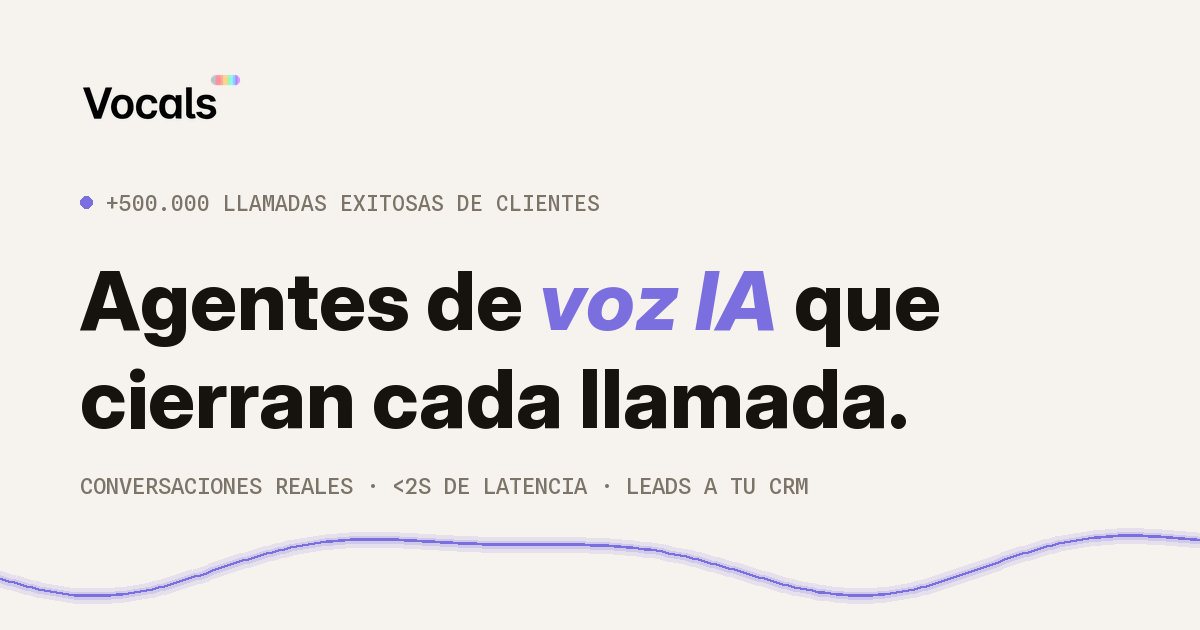
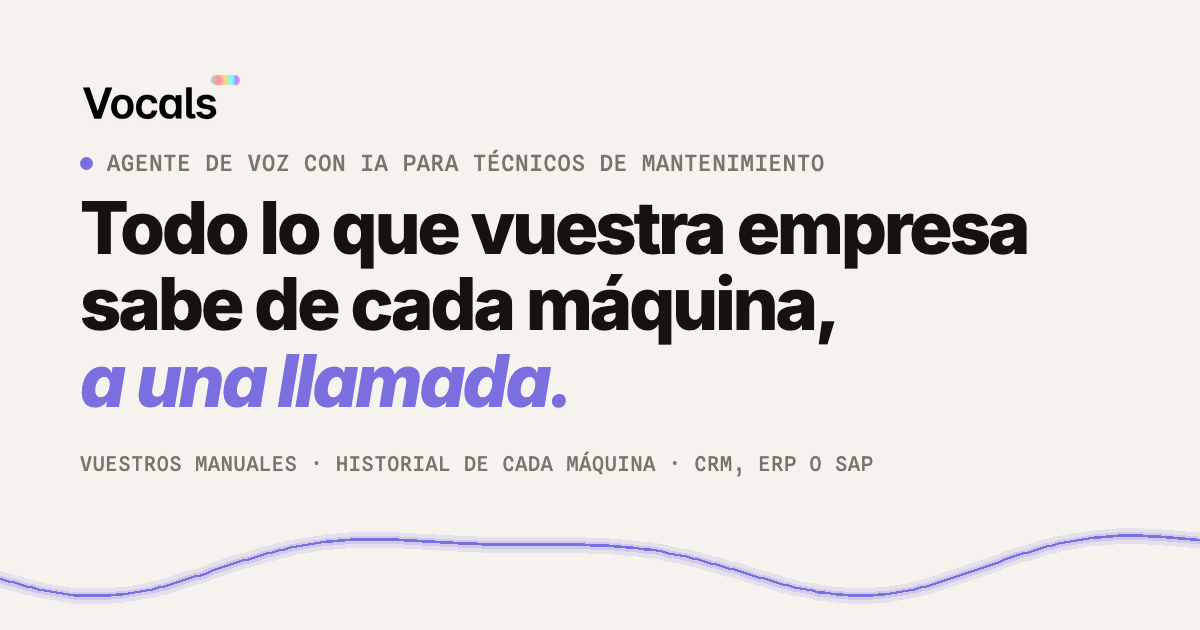
Imagen al compartir con el mensaje de técnicos y limpieza GEO

Changed region(s): [[0.0617, 0.3016, 0.8633, 0.6937], [0.0617, 0.7238, 0.74, 0.7841], [0.0617, 0.2413, 0.7092, 0.2714]]

diff --git a/es/index.html b/es/index.html
@@ -4,7 +4,7 @@
 <meta charset="utf-8">
 <meta name="viewport" content="width=device-width, initial-scale=1">
 <script src="/assets/medicion.js?v=2" async></script>
-<title>Vocals · Un agente de voz que conoce tus máquinas</title>
+<title>Vocals · Un agente de voz que conoce vuestras máquinas</title>
 <link rel="alternate" hreflang="en" href="https://usevocals.com/">
 <link rel="alternate" hreflang="es" href="https://usevocals.com/es/">
 <link rel="alternate" hreflang="fr" href="https://usevocals.com/fr/">
@@ -13,10 +13,10 @@
 <meta name="description" content="Vocals crea agentes de voz que guían a vuestros técnicos de mantenimiento por teléfono con vuestros manuales y el saber de vuestros técnicos senior: ascensores, vending, grúas, minería, líneas de producción y climatización.">
 <meta property="og:type" content="website">
 <meta property="og:site_name" content="Vocals">
-<meta property="og:title" content="Vocals · Un agente de voz que conoce tus máquinas">
+<meta property="og:title" content="Vocals · Un agente de voz que conoce vuestras máquinas">
 <meta property="og:description" content="Agentes de voz que guían a vuestros técnicos de mantenimiento, con vuestros manuales, a cualquier hora.">
 <meta property="og:url" content="https://usevocals.com/es/">
-<meta property="og:image" content="https://usevocals.com/og-image-es.png">
+<meta property="og:image" content="https://usevocals.com/og-tecnicos-es.png">
 <meta property="og:locale" content="es_ES">
 <meta name="twitter:card" content="summary_large_image">
 <link rel="icon" href="/favicon.ico" sizes="any">
@@ -991,7 +991,7 @@
       <div>
         <div class="live">
           <div class="live-top">
-            <div class="id"><img class="av" src="/vocals-pillow.png" alt="Vocals"> <span id="hklabel"><span data-es>Llamada de un técnico</span><span data-en>A technician’s call</span></span> <span id="hkagent" style="display:none;color:var(--dim); font-weight:400;">· Ana</span></div>
+            <div class="id"><img class="av" src="/vocals-pillow.png" alt="Vocals"> <span id="hklabel"><span data-es>Llamada de un técnico</span><span data-en>A technician’s call</span></span> <span id="hkagent" style="display:none;color:var(--dim); font-weight:400;"></span></div>
             <div class="eq"><i style="height:60%"></i><i style="height:95%"></i><i style="height:45%"></i><i style="height:85%"></i><i style="height:55%"></i></div>
           </div>
           <div class="live-body">
@@ -1396,29 +1396,6 @@ function draw(){
 }
 draw();
 
-// ---- transcripción bilingüe ----
-var LINES_ALL={
-  es:[
-    ['Ana · Agente IA','Hola, soy de Vocals. ¿Tienes veinte segundos?'],
-    ['Contacto','Eh… sí, dime.'],
-    ['Ana · Agente IA','Tu equipo hace unas 200 llamadas al día, ¿verdad? Puedo encargarme de todas - cada lead, cada seguimiento, sin que se caiga ninguno.'],
-    ['Contacto','Mira, ya hemos probado voces IA. Suenan a robot.'],
-    ['Ana · Agente IA','Te entiendo. Llevas veinte segundos hablando con una.'],
-    ['Contacto','Espera… ¿en serio? Vaya, qué bueno.'],
-    ['Ana · Agente IA','Pues te agendo una demo en directo. ¿El jueves a las diez?'],
-    ['Contacto','El jueves me va bien. Perfecto.']
-  ],
-  en:[
-    ['Ana · AI Agent','Hi, it\'s Vocals. Got twenty seconds?'],
-    ['Contact','Uh… sure, go ahead.'],
-    ['Ana · AI Agent','Your team makes around 200 outbound calls a day, right? I can handle every one - each lead, each follow-up, nothing dropped.'],
-    ['Contact','Look, we\'ve tried AI callers. They sound robotic.'],
-    ['Ana · AI Agent','Understandable. You\'ve been talking to one for the last twenty seconds.'],
-    ['Contact','…wait, really? That\'s actually impressive.'],
-    ['Ana · AI Agent','Then let me book you a live demo. Thursday at ten?'],
-    ['Contact','Thursday works. Perfect.']
-  ]
-};
 // Selector del hero: los seis sectores técnicos. Ascensores y vending llevan
 // su llamada grabada (ElevenLabs); el resto, de momento, solo el texto.
 var HCASES=[{"k": "vending", "es": "Operadores de vending", "en": "Vending operators", "lines": [{"b": 0, "es": "Estoy con la máquina 1047. El agua no calienta y salta la alarma de la resistencia.", "en": "I’m at machine 1047. The water won’t heat up and the heater alarm is on."}, {"b": 1, "es": "Vale. Con la máquina desenchufada, mira primero el fusible de 10 A y el clixon de la caldera.", "en": "Okay. With the machine unplugged, check the 10 A fuse and the boiler cut-out first."}, {"b": 0, "es": "Fusible bien, y el clixon no ha saltado.", "en": "Fuse is fine, and the cut-out hasn’t tripped."}, {"b": 1, "es": "Entonces mide en el conector JP11, pines 1 y 3. Ojo, que es con tensión. Si llegan 220 V y no calienta, es la resistencia: hay que cambiarla.", "en": "Then measure at connector JP11, pins 1 and 3. Careful, it’s live. If you get 220 V and it still won’t heat, it’s the heating element: it needs replacing."}], "res": {"es": "Incidencia localizada · parte registrado", "en": "Fault found · job logged"}, "a": {"es": {"f": "/home-es-vending.mp3?v=2", "s": [0.25, 5.49, 12.18, 14.55], "d": [4.86, 6.31, 1.99, 11.82]}, "en": {"f": "/home-vending.mp3?v=2", "s": [0.25, 5.17, 11.29, 13.81], "d": [4.54, 5.74, 2.14, 11.88]}}}];
@@ -1645,7 +1622,7 @@ function applyLang(lang){
   var tvid=document.getElementById('testivid'); if(tvid){ tvid.pause(); tvid.poster='/testimonio-evo-'+lang+'-poster.jpg'; tvid.src='/testimonio-evo-'+lang+'.mp4'; tvid.load(); }
   renderRing();
   if(window.__ucRefresh) window.__ucRefresh();
-  document.title = lang==='en' ? 'Vocals · A voice agent that knows your machines' : 'Vocals · Un agente de voz que conoce tus máquinas';
+  document.title = lang==='en' ? 'Vocals · A voice agent that knows your machines' : 'Vocals · Un agente de voz que conoce vuestras máquinas';
   if(callAudio){ callAudio.pause(); callAudio=null; } callPlaying=false; curLine=-1; if(caretEl) caretEl.style.display='';
   clearTimeout(typeTimer); li=0; ci=0; qual.classList.remove('on'); type();
   setBtn(false); syncPlayBtn();

diff --git a/es/vending/index.html b/es/vending/index.html
@@ -5,6 +5,8 @@
 <meta name="viewport" content="width=device-width, initial-scale=1">
 <script src="/assets/medicion.js?v=2" async></script>
 <title>Vocals - Agentes de voz IA para operadores de vending</title>
+<meta name="description" content="Agentes de voz con IA para operadores de vending: vuestro técnico llama con la máquina delante y recibe guía paso a paso con los manuales de vuestro parque y el historial de cada máquina.">
+<link rel="canonical" href="https://usevocals.com/es/vending/">
 <link rel="alternate" hreflang="en" href="https://usevocals.com/vending/">
 <link rel="alternate" hreflang="es" href="https://usevocals.com/es/vending/">
 
@@ -519,7 +521,7 @@
       <div class="lv-pil rv" style="--d:.12s"><span class="lv-idx">02</span>
         <h3><span data-es>Coge siempre, y no interrumpe a nadie</span><span data-en>It always picks up, and interrupts nobody</span></h3>
         <p><span data-es>Tu técnico senior deja de ser el cuello de botella. Puede atender a varios técnicos a la vez sin que ninguno espere.</span><span data-en>Your senior technician stops being the bottleneck. It can take several technicians at once with nobody waiting.</span></p>
-        <div class="lv-note"><span data-es>Y deja de estar interrumpido diez veces al día.</span><span data-en>And they stop being interrupted ten times a day.</span></div>
+        <div class="lv-note"><span data-es>Y deja de estar pendiente del teléfono.</span><span data-en>And they’re no longer tied to the phone.</span></div>
         <div class="pv-vis"><svg viewBox="0 0 480 166" width="480" height="166" aria-hidden="true" focusable="false"><defs><radialGradient id="pvh2" cx=".5" cy=".5" r=".5"><stop offset="0" class="pv-s" stop-opacity=".55"/><stop offset="1" class="pv-s" stop-opacity="0"/></radialGradient><linearGradient id="pvl2" x1="0" y1="0" x2="1" y2="0"><stop offset="0" class="pv-s" stop-opacity=".06"/><stop offset="1" class="pv-s" stop-opacity=".9"/></linearGradient><linearGradient id="pvv2" x1="0" y1="0" x2="0" y2="1"><stop offset="0" class="pv-w" stop-opacity=".22"/><stop offset="1" class="pv-w" stop-opacity="0"/></linearGradient><pattern id="pvp2" width="15" height="15" patternUnits="userSpaceOnUse"><circle cx="1.1" cy="1.1" r="1.1" class="pv-dot"/></pattern></defs><rect x=".5" y=".5" width="479" height="165" rx="18" class="pv-plate"/><rect x=".5" y=".5" width="479" height="165" rx="18" fill="url(#pvp2)" opacity=".5" stroke="none"/><rect x=".5" y=".5" width="479" height="165" rx="18" fill="none" stroke-width="1" class="pv-line"/><path d="M17 17 h8 M17 17 v8" class="pv-tick"/><path d="M463 17 h-8 M463 17 v8" class="pv-tick"/><path d="M17 149 h8 M17 149 v-8" class="pv-tick"/><path d="M463 149 h-8 M463 149 v-8" class="pv-tick"/><polygon points="36.0,20.5 44.2,25.2 44.2,34.8 36.0,39.5 27.8,34.8 27.8,25.2" fill="var(--violet)" opacity=".3"/><rect x="54" y="26.5" width="34" height="7" rx="3.5" fill="var(--violet)" opacity=".18"/><path d="M94 30 C 168 30, 202 83, 262 83" class="pv-soft" stroke-width="1.5" fill="none" opacity=".38"/><polygon points="36.0,46.5 44.2,51.2 44.2,60.8 36.0,65.5 27.8,60.8 27.8,51.2" fill="var(--violet)" opacity=".3"/><rect x="54" y="52.5" width="34" height="7" rx="3.5" fill="var(--violet)" opacity=".18"/><path d="M94 56 C 168 56, 202 83, 262 83" class="pv-soft" stroke-width="1.5" fill="none" opacity=".38"/><polygon points="36.0,72.5 44.2,77.2 44.2,86.8 36.0,91.5 27.8,86.8 27.8,77.2" fill="var(--violet)" opacity=".3"/><rect x="54" y="78.5" width="34" height="7" rx="3.5" fill="var(--violet)" opacity=".18"/><path d="M94 82 C 168 82, 202 83, 262 83" class="pv-soft" stroke-width="1.5" fill="none" opacity=".38"/><polygon points="36.0,98.5 44.2,103.2 44.2,112.8 36.0,117.5 27.8,112.8 27.8,103.2" fill="var(--violet)" opacity=".3"/><rect x="54" y="104.5" width="34" height="7" rx="3.5" fill="var(--violet)" opacity=".18"/><path d="M94 108 C 168 108, 202 83, 262 83" class="pv-soft" stroke-width="1.5" fill="none" opacity=".38"/><polygon points="36.0,124.5 44.2,129.2 44.2,138.8 36.0,143.5 27.8,138.8 27.8,129.2" fill="var(--violet)" opacity=".3"/><rect x="54" y="130.5" width="34" height="7" rx="3.5" fill="var(--violet)" opacity=".18"/><path d="M94 134 C 168 134, 202 83, 262 83" class="pv-soft" stroke-width="1.5" fill="none" opacity=".38"/><line x1="262" y1="83" x2="300" y2="83" stroke="url(#pvl2)" stroke-width="3" stroke-linecap="round"/><rect x="290" y="55" width="164" height="56" rx="20" fill="url(#pvh2)" opacity=".6"/><rect x="298" y="61" width="148" height="44" rx="15" fill="var(--violet)"/><path d="M320 83 l6 6 l12 -14" class="pv-onS" stroke-width="2.6" fill="none" stroke-linecap="round" stroke-linejoin="round"/><text x="350" y="88" font-size="11.5" font-family="'Spline Sans Mono',ui-monospace,monospace" class="pv-on" opacity="0.97" letter-spacing=".06em" data-es>SIN ESPERA</text><text x="350" y="88" font-size="11.5" font-family="'Spline Sans Mono',ui-monospace,monospace" class="pv-on" opacity="0.97" letter-spacing=".06em" data-en>NO WAITING</text></svg></div>
       </div>
       <div class="lv-pil rv"><span class="lv-idx">03</span>

diff --git a/vending/index.html b/vending/index.html
@@ -5,6 +5,8 @@
 <meta name="viewport" content="width=device-width, initial-scale=1">
 <script src="/assets/medicion.js?v=2" async></script>
 <title>Vocals - AI voice agents for vending operators</title>
+<meta name="description" content="AI voice agents for vending operators: your technician calls with the machine in front of them and gets step-by-step guidance from your fleet’s manuals and each machine’s history.">
+<link rel="canonical" href="https://usevocals.com/vending/">
 <link rel="alternate" hreflang="en" href="https://usevocals.com/vending/">
 <link rel="alternate" hreflang="es" href="https://usevocals.com/es/vending/">
 
@@ -519,7 +521,7 @@
       <div class="lv-pil rv" style="--d:.12s"><span class="lv-idx">02</span>
         <h3><span data-es>Coge siempre, y no interrumpe a nadie</span><span data-en>It always picks up, and interrupts nobody</span></h3>
         <p><span data-es>Tu técnico senior deja de ser el cuello de botella. Puede atender a varios técnicos a la vez sin que ninguno espere.</span><span data-en>Your senior technician stops being the bottleneck. It can take several technicians at once with nobody waiting.</span></p>
-        <div class="lv-note"><span data-es>Y deja de estar interrumpido diez veces al día.</span><span data-en>And they stop being interrupted ten times a day.</span></div>
+        <div class="lv-note"><span data-es>Y deja de estar pendiente del teléfono.</span><span data-en>And they’re no longer tied to the phone.</span></div>
         <div class="pv-vis"><svg viewBox="0 0 480 166" width="480" height="166" aria-hidden="true" focusable="false"><defs><radialGradient id="pvh2" cx=".5" cy=".5" r=".5"><stop offset="0" class="pv-s" stop-opacity=".55"/><stop offset="1" class="pv-s" stop-opacity="0"/></radialGradient><linearGradient id="pvl2" x1="0" y1="0" x2="1" y2="0"><stop offset="0" class="pv-s" stop-opacity=".06"/><stop offset="1" class="pv-s" stop-opacity=".9"/></linearGradient><linearGradient id="pvv2" x1="0" y1="0" x2="0" y2="1"><stop offset="0" class="pv-w" stop-opacity=".22"/><stop offset="1" class="pv-w" stop-opacity="0"/></linearGradient><pattern id="pvp2" width="15" height="15" patternUnits="userSpaceOnUse"><circle cx="1.1" cy="1.1" r="1.1" class="pv-dot"/></pattern></defs><rect x=".5" y=".5" width="479" height="165" rx="18" class="pv-plate"/><rect x=".5" y=".5" width="479" height="165" rx="18" fill="url(#pvp2)" opacity=".5" stroke="none"/><rect x=".5" y=".5" width="479" height="165" rx="18" fill="none" stroke-width="1" class="pv-line"/><path d="M17 17 h8 M17 17 v8" class="pv-tick"/><path d="M463 17 h-8 M463 17 v8" class="pv-tick"/><path d="M17 149 h8 M17 149 v-8" class="pv-tick"/><path d="M463 149 h-8 M463 149 v-8" class="pv-tick"/><polygon points="36.0,20.5 44.2,25.2 44.2,34.8 36.0,39.5 27.8,34.8 27.8,25.2" fill="var(--violet)" opacity=".3"/><rect x="54" y="26.5" width="34" height="7" rx="3.5" fill="var(--violet)" opacity=".18"/><path d="M94 30 C 168 30, 202 83, 262 83" class="pv-soft" stroke-width="1.5" fill="none" opacity=".38"/><polygon points="36.0,46.5 44.2,51.2 44.2,60.8 36.0,65.5 27.8,60.8 27.8,51.2" fill="var(--violet)" opacity=".3"/><rect x="54" y="52.5" width="34" height="7" rx="3.5" fill="var(--violet)" opacity=".18"/><path d="M94 56 C 168 56, 202 83, 262 83" class="pv-soft" stroke-width="1.5" fill="none" opacity=".38"/><polygon points="36.0,72.5 44.2,77.2 44.2,86.8 36.0,91.5 27.8,86.8 27.8,77.2" fill="var(--violet)" opacity=".3"/><rect x="54" y="78.5" width="34" height="7" rx="3.5" fill="var(--violet)" opacity=".18"/><path d="M94 82 C 168 82, 202 83, 262 83" class="pv-soft" stroke-width="1.5" fill="none" opacity=".38"/><polygon points="36.0,98.5 44.2,103.2 44.2,112.8 36.0,117.5 27.8,112.8 27.8,103.2" fill="var(--violet)" opacity=".3"/><rect x="54" y="104.5" width="34" height="7" rx="3.5" fill="var(--violet)" opacity=".18"/><path d="M94 108 C 168 108, 202 83, 262 83" class="pv-soft" stroke-width="1.5" fill="none" opacity=".38"/><polygon points="36.0,124.5 44.2,129.2 44.2,138.8 36.0,143.5 27.8,138.8 27.8,129.2" fill="var(--violet)" opacity=".3"/><rect x="54" y="130.5" width="34" height="7" rx="3.5" fill="var(--violet)" opacity=".18"/><path d="M94 134 C 168 134, 202 83, 262 83" class="pv-soft" stroke-width="1.5" fill="none" opacity=".38"/><line x1="262" y1="83" x2="300" y2="83" stroke="url(#pvl2)" stroke-width="3" stroke-linecap="round"/><rect x="290" y="55" width="164" height="56" rx="20" fill="url(#pvh2)" opacity=".6"/><rect x="298" y="61" width="148" height="44" rx="15" fill="var(--violet)"/><path d="M320 83 l6 6 l12 -14" class="pv-onS" stroke-width="2.6" fill="none" stroke-linecap="round" stroke-linejoin="round"/><text x="350" y="88" font-size="11.5" font-family="'Spline Sans Mono',ui-monospace,monospace" class="pv-on" opacity="0.97" letter-spacing=".06em" data-es>SIN ESPERA</text><text x="350" y="88" font-size="11.5" font-family="'Spline Sans Mono',ui-monospace,monospace" class="pv-on" opacity="0.97" letter-spacing=".06em" data-en>NO WAITING</text></svg></div>
       </div>
       <div class="lv-pil rv"><span class="lv-idx">03</span>

diff --git a/index.html b/index.html
@@ -16,7 +16,7 @@
 <meta property="og:title" content="Vocals · A voice agent that knows your machines">
 <meta property="og:description" content="Voice agents that guide your field technicians with your manuals, at any hour.">
 <meta property="og:url" content="https://usevocals.com/">
-<meta property="og:image" content="https://usevocals.com/og-image.png">
+<meta property="og:image" content="https://usevocals.com/og-tecnicos.png">
 <meta name="twitter:card" content="summary_large_image">
 <meta property="og:locale" content="en_US">
 <link rel="icon" href="/favicon.ico" sizes="any">
@@ -991,7 +991,7 @@
       <div>
         <div class="live">
           <div class="live-top">
-            <div class="id"><img class="av" src="vocals-pillow.png" alt="Vocals"> <span id="hklabel"><span data-es>Llamada de un técnico</span><span data-en>A technician’s call</span></span> <span id="hkagent" style="display:none;color:var(--dim); font-weight:400;">· Ana</span></div>
+            <div class="id"><img class="av" src="vocals-pillow.png" alt="Vocals"> <span id="hklabel"><span data-es>Llamada de un técnico</span><span data-en>A technician’s call</span></span> <span id="hkagent" style="display:none;color:var(--dim); font-weight:400;"></span></div>
             <div class="eq"><i style="height:60%"></i><i style="height:95%"></i><i style="height:45%"></i><i style="height:85%"></i><i style="height:55%"></i></div>
           </div>
           <div class="live-body">
@@ -1396,29 +1396,6 @@ function draw(){
 }
 draw();
 
-// ---- transcripción bilingüe ----
-var LINES_ALL={
-  es:[
-    ['Ana · Agente IA','Hola, soy de Vocals. ¿Tienes veinte segundos?'],
-    ['Contacto','Eh… sí, dime.'],
-    ['Ana · Agente IA','Tu equipo hace unas 200 llamadas al día, ¿verdad? Puedo encargarme de todas - cada lead, cada seguimiento, sin que se caiga ninguno.'],
-    ['Contacto','Mira, ya hemos probado voces IA. Suenan a robot.'],
-    ['Ana · Agente IA','Te entiendo. Llevas veinte segundos hablando con una.'],
-    ['Contacto','Espera… ¿en serio? Vaya, qué bueno.'],
-    ['Ana · Agente IA','Pues te agendo una demo en directo. ¿El jueves a las diez?'],
-    ['Contacto','El jueves me va bien. Perfecto.']
-  ],
-  en:[
-    ['Ana · AI Agent','Hi, it\'s Vocals. Got twenty seconds?'],
-    ['Contact','Uh… sure, go ahead.'],
-    ['Ana · AI Agent','Your team makes around 200 outbound calls a day, right? I can handle every one - each lead, each follow-up, nothing dropped.'],
-    ['Contact','Look, we\'ve tried AI callers. They sound robotic.'],
-    ['Ana · AI Agent','Understandable. You\'ve been talking to one for the last twenty seconds.'],
-    ['Contact','…wait, really? That\'s actually impressive.'],
-    ['Ana · AI Agent','Then let me book you a live demo. Thursday at ten?'],
-    ['Contact','Thursday works. Perfect.']
-  ]
-};
 // Selector del hero: los seis sectores técnicos. Ascensores y vending llevan
 // su llamada grabada (ElevenLabs); el resto, de momento, solo el texto.
 var HCASES=[{"k": "vending", "es": "Operadores de vending", "en": "Vending operators", "lines": [{"b": 0, "es": "Estoy con la máquina 1047. El agua no calienta y salta la alarma de la resistencia.", "en": "I’m at machine 1047. The water won’t heat up and the heater alarm is on."}, {"b": 1, "es": "Vale. Con la máquina desenchufada, mira primero el fusible de 10 A y el clixon de la caldera.", "en": "Okay. With the machine unplugged, check the 10 A fuse and the boiler cut-out first."}, {"b": 0, "es": "Fusible bien, y el clixon no ha saltado.", "en": "Fuse is fine, and the cut-out hasn’t tripped."}, {"b": 1, "es": "Entonces mide en el conector JP11, pines 1 y 3. Ojo, que es con tensión. Si llegan 220 V y no calienta, es la resistencia: hay que cambiarla.", "en": "Then measure at connector JP11, pins 1 and 3. Careful, it’s live. If you get 220 V and it still won’t heat, it’s the heating element: it needs replacing."}], "res": {"es": "Incidencia localizada · parte registrado", "en": "Fault found · job logged"}, "a": {"es": {"f": "/home-es-vending.mp3?v=2", "s": [0.25, 5.49, 12.18, 14.55], "d": [4.86, 6.31, 1.99, 11.82]}, "en": {"f": "/home-vending.mp3?v=2", "s": [0.25, 5.17, 11.29, 13.81], "d": [4.54, 5.74, 2.14, 11.88]}}}];
@@ -1645,7 +1622,7 @@ function applyLang(lang){
   var tvid=document.getElementById('testivid'); if(tvid){ tvid.pause(); tvid.poster='testimonio-evo-'+lang+'-poster.jpg'; tvid.src='testimonio-evo-'+lang+'.mp4'; tvid.load(); }
   renderRing();
   if(window.__ucRefresh) window.__ucRefresh();
-  document.title = lang==='en' ? 'Vocals · A voice agent that knows your machines' : 'Vocals · Un agente de voz que conoce tus máquinas';
+  document.title = lang==='en' ? 'Vocals · A voice agent that knows your machines' : 'Vocals · Un agente de voz que conoce vuestras máquinas';
   if(callAudio){ callAudio.pause(); callAudio=null; } callPlaying=false; curLine=-1; if(caretEl) caretEl.style.display='';
   clearTimeout(typeTimer); li=0; ci=0; qual.classList.remove('on'); type();
   setBtn(false); syncPlayBtn();

diff --git a/fr/index.html b/fr/index.html
@@ -16,7 +16,7 @@
 <meta property="og:title" content="Vocals · Un agent vocal qui connaît vos machines">
 <meta property="og:description" content="Des agents vocaux qui guident vos techniciens de maintenance, avec vos manuels, à toute heure.">
 <meta property="og:url" content="https://usevocals.com/fr/">
-<meta property="og:image" content="https://usevocals.com/og-image.png">
+<meta property="og:image" content="https://usevocals.com/og-tecnicos-fr.png">
 <meta property="og:locale" content="fr_FR">
 <meta name="twitter:card" content="summary_large_image">
 <link rel="icon" href="/favicon.ico" sizes="any">
@@ -991,7 +991,7 @@
       <div>
         <div class="live">
           <div class="live-top">
-            <div class="id"><img class="av" src="/vocals-pillow.png" alt="Vocals"> <span id="hklabel"><span data-fr>Appel d’un technicien</span><span data-en>A technician’s call</span></span> <span id="hkagent" style="display:none;color:var(--dim); font-weight:400;">· Ana</span></div>
+            <div class="id"><img class="av" src="/vocals-pillow.png" alt="Vocals"> <span id="hklabel"><span data-fr>Appel d’un technicien</span><span data-en>A technician’s call</span></span> <span id="hkagent" style="display:none;color:var(--dim); font-weight:400;"></span></div>
             <div class="eq"><i style="height:60%"></i><i style="height:95%"></i><i style="height:45%"></i><i style="height:85%"></i><i style="height:55%"></i></div>
           </div>
           <div class="live-body">
@@ -1396,29 +1396,6 @@ function draw(){
 }
 draw();
 
-// ---- transcripción bilingüe ----
-var LINES_ALL={
-  es:[
-    ['Ana · Agente IA','Bonjour, ici Vocals. Vous avez vingt secondes ?'],
-    ['Contact','Euh… oui, je vous écoute.'],
-    ['Ana · Agente IA','Votre équipe passe environ 200 appels par jour, c\'est bien ça ? Je peux tous les prendre en charge - chaque lead, chaque relance, sans en perdre un seul.'],
-    ['Contact','Mira, ya hemos probado voces IA. Suenan a robot.'],
-    ['Ana · Agente IA','Je vous comprends. Cela fait vingt secondes que vous parlez à une.'],
-    ['Contact','Attendez… sérieusement ? Eh bien, impressionnant.'],
-    ['Ana · Agente IA','Alors je vous programme une démo en direct. Jeudi à dix heures ?'],
-    ['Contact','El jueves me va bien. Perfecto.']
-  ],
-  en:[
-    ['Ana · AI Agent','Hi, it\'s Vocals. Got twenty seconds?'],
-    ['Contact','Uh… sure, go ahead.'],
-    ['Ana · AI Agent','Your team makes around 200 outbound calls a day, right? I can handle every one - each lead, each follow-up, nothing dropped.'],
-    ['Contact','Look, we\'ve tried AI callers. They sound robotic.'],
-    ['Ana · AI Agent','Understandable. You\'ve been talking to one for the last twenty seconds.'],
-    ['Contact','…wait, really? That\'s actually impressive.'],
-    ['Ana · AI Agent','Then let me book you a live demo. Thursday at ten?'],
-    ['Contact','Thursday works. Perfect.']
-  ]
-};
 // Selector del hero: los seis sectores técnicos. Ascensores y vending llevan
 // su llamada grabada (ElevenLabs); el resto, de momento, solo el texto.
 var HCASES=[{"k": "vending", "es": "Opérateurs de distribution automatique", "en": "Vending operators", "lines": [{"b": 0, "es": "Je suis sur la machine 1047. L'eau ne chauffe pas et l'alarme de la résistance se déclenche.", "en": "I’m at machine 1047. The water won’t heat up and the heater alarm is on."}, {"b": 1, "es": "D'accord. Machine débranchée, regardez d'abord le fusible de 10 A et le klixon de la chaudière.", "en": "Okay. With the machine unplugged, check the 10 A fuse and the boiler cut-out first."}, {"b": 0, "es": "Le fusible est bon, et le klixon n'a pas sauté.", "en": "Fuse is fine, and the cut-out hasn’t tripped."}, {"b": 1, "es": "Alors mesurez sur le connecteur JP11, broches 1 et 3. Attention, c'est sous tension. Si vous avez 220 V et que ça ne chauffe pas, c'est la résistance : il faut la changer.", "en": "Then measure at connector JP11, pins 1 and 3. Careful, it’s live. If you get 220 V and it still won’t heat, it’s the heating element: it needs replacing."}], "res": {"es": "Panne localisée · bon d'intervention enregistré", "en": "Fault found · job logged"}, "a": {"es": {"f": "/home-es-vending.mp3?v=2", "s": [0.25, 5.49, 12.18, 14.55], "d": [4.86, 6.31, 1.99, 11.82]}, "en": {"f": "/home-vending.mp3?v=2", "s": [0.25, 5.17, 11.29, 13.81], "d": [4.54, 5.74, 2.14, 11.88]}, "fr": {"f": "/home-fr-vending.mp3", "s": [0.25, 5.84, 12.22, 14.79], "d": [5.21, 6.0, 2.19, 10.12]}}}];

diff --git a/de/index.html b/de/index.html
@@ -16,7 +16,7 @@
 <meta property="og:title" content="Vocals · Ein Sprachagent, der Ihre Maschinen kennt">
 <meta property="og:description" content="Sprachagenten, die Ihre Wartungstechniker anleiten – mit Ihren Handbüchern, rund um die Uhr.">
 <meta property="og:url" content="https://usevocals.com/de/">
-<meta property="og:image" content="https://usevocals.com/og-image.png">
+<meta property="og:image" content="https://usevocals.com/og-tecnicos-de.png">
 <meta property="og:locale" content="de_DE">
 <meta name="twitter:card" content="summary_large_image">
 <link rel="icon" href="/favicon.ico" sizes="any">
@@ -991,7 +991,7 @@
       <div>
         <div class="live">
           <div class="live-top">
-            <div class="id"><img class="av" src="/vocals-pillow.png" alt="Vocals"> <span id="hklabel"><span data-de>Anruf eines Technikers</span><span data-en>A technician’s call</span></span> <span id="hkagent" style="display:none;color:var(--dim); font-weight:400;">· Ana</span></div>
+            <div class="id"><img class="av" src="/vocals-pillow.png" alt="Vocals"> <span id="hklabel"><span data-de>Anruf eines Technikers</span><span data-en>A technician’s call</span></span> <span id="hkagent" style="display:none;color:var(--dim); font-weight:400;"></span></div>
             <div class="eq"><i style="height:60%"></i><i style="height:95%"></i><i style="height:45%"></i><i style="height:85%"></i><i style="height:55%"></i></div>
           </div>
           <div class="live-body">
@@ -1396,29 +1396,6 @@ function draw(){
 }
 draw();
 
-// ---- transcripción bilingüe ----
-var LINES_ALL={
-  es:[
-    ['Ana · Agente IA','Hallo, hier ist Vocals. Haben Sie zwanzig Sekunden?'],
-    ['Kontakt','Äh … ja, bitte.'],
-    ['Ana · Agente IA','Ihr Team führt rund 200 Anrufe am Tag, richtig? Die kann ich alle übernehmen - jeden Lead, jedes Follow-up, ohne dass einer verloren geht.'],
-    ['Kontakt','Mira, ya hemos probado voces IA. Suenan a robot.'],
-    ['Ana · Agente IA','Verstehe. Sie sprechen seit zwanzig Sekunden mit einer.'],
-    ['Kontakt','Moment … im Ernst? Wow, nicht schlecht.'],
-    ['Ana · Agente IA','Dann vereinbare ich eine Live-Demo mit Ihnen. Donnerstag um zehn?'],
-    ['Kontakt','El jueves me va bien. Perfecto.']
-  ],
-  en:[
-    ['Ana · AI Agent','Hi, it\'s Vocals. Got twenty seconds?'],
-    ['Contact','Uh… sure, go ahead.'],
-    ['Ana · AI Agent','Your team makes around 200 outbound calls a day, right? I can handle every one - each lead, each follow-up, nothing dropped.'],
-    ['Contact','Look, we\'ve tried AI callers. They sound robotic.'],
-    ['Ana · AI Agent','Understandable. You\'ve been talking to one for the last twenty seconds.'],
-    ['Contact','…wait, really? That\'s actually impressive.'],
-    ['Ana · AI Agent','Then let me book you a live demo. Thursday at ten?'],
-    ['Contact','Thursday works. Perfect.']
-  ]
-};
 // Selector del hero: los seis sectores técnicos. Ascensores y vending llevan
 // su llamada grabada (ElevenLabs); el resto, de momento, solo el texto.
 var HCASES=[{"k": "vending", "es": "Automatenbetreiber", "en": "Vending operators", "lines": [{"b": 0, "es": "Ich bin an Automat 1047. Das Wasser wird nicht heiß und der Alarm für das Heizelement geht los.", "en": "I’m at machine 1047. The water won’t heat up and the heater alarm is on."}, {"b": 1, "es": "Okay. Trennen Sie den Automaten vom Netz und prüfen Sie zuerst die Sicherung (10 A) und den Klixon am Boiler.", "en": "Okay. With the machine unplugged, check the 10 A fuse and the boiler cut-out first."}, {"b": 0, "es": "Sicherung ist in Ordnung, und der Klixon hat nicht ausgelöst.", "en": "Fuse is fine, and the cut-out hasn’t tripped."}, {"b": 1, "es": "Dann messen Sie am Stecker JP11, Pins 1 und 3. Vorsicht, das ist unter Spannung. Liegen 220 V an und es heizt nicht, ist es das Heizelement: Das muss getauscht werden.", "en": "Then measure at connector JP11, pins 1 and 3. Careful, it’s live. If you get 220 V and it still won’t heat, it’s the heating element: it needs replacing."}], "res": {"es": "Störung lokalisiert · Servicebericht erfasst", "en": "Fault found · job logged"}, "a": {"es": {"f": "/home-es-vending.mp3?v=2", "s": [0.25, 5.49, 12.18, 14.55], "d": [4.86, 6.31, 1.99, 11.82]}, "en": {"f": "/home-vending.mp3?v=2", "s": [0.25, 5.17, 11.29, 13.81], "d": [4.54, 5.74, 2.14, 11.88]}, "de": {"f": "/home-de-vending.mp3", "s": [0.25, 6.73, 14.89, 18.11], "d": [6.1, 7.78, 2.84, 12.08]}}}];

diff --git a/fr/ascenseurs/index.html b/fr/ascenseurs/index.html
@@ -5,6 +5,8 @@
 <meta name="viewport" content="width=device-width, initial-scale=1">
 <script src="/assets/medicion.js?v=2" async></script>
 <title>Vocals · Agents vocaux pour les entreprises d’ascenseurs</title>
+<meta name="description" content="Agents vocaux IA pour les entreprises d’ascenseurs : votre technicien appelle depuis la gaine ou la salle des machines et reçoit un guidage pas à pas à partir de vos manuels et de l’historique de chaque appareil.">
+<link rel="canonical" href="https://usevocals.com/fr/ascenseurs/">
 <link rel="alternate" hreflang="en" href="https://usevocals.com/elevators/">
 <link rel="alternate" hreflang="es" href="https://usevocals.com/es/ascensores/">
 <link rel="alternate" hreflang="fr" href="https://usevocals.com/fr/ascenseurs/">

diff --git a/es/ascensores/index.html b/es/ascensores/index.html
@@ -5,6 +5,8 @@
 <meta name="viewport" content="width=device-width, initial-scale=1">
 <script src="/assets/medicion.js?v=2" async></script>
 <title>Vocals - Agentes de voz IA para empresas de ascensores</title>
+<meta name="description" content="Agentes de voz con IA para empresas de ascensores: vuestro técnico llama desde el hueco o el cuarto de máquinas y recibe guía paso a paso con vuestros manuales y el historial de cada aparato.">
+<link rel="canonical" href="https://usevocals.com/es/ascensores/">
 <link rel="alternate" hreflang="en" href="https://usevocals.com/elevators/">
 <link rel="alternate" hreflang="es" href="https://usevocals.com/es/ascensores/">
 <link rel="alternate" hreflang="fr" href="https://usevocals.com/fr/ascenseurs/">

diff --git a/de/aufzuege/index.html b/de/aufzuege/index.html
@@ -5,6 +5,8 @@
 <meta name="viewport" content="width=device-width, initial-scale=1">
 <script src="/assets/medicion.js?v=2" async></script>
 <title>Vocals · Sprachagenten für Aufzugsunternehmen</title>
+<meta name="description" content="KI-Sprachagenten für Aufzugsunternehmen: Ihr Techniker ruft aus dem Schacht oder Maschinenraum an und wird Schritt für Schritt anhand Ihrer Handbücher und der Historie jeder Anlage angeleitet.">
+<link rel="canonical" href="https://usevocals.com/de/aufzuege/">
 <link rel="alternate" hreflang="en" href="https://usevocals.com/elevators/">
 <link rel="alternate" hreflang="es" href="https://usevocals.com/es/ascensores/">
 <link rel="alternate" hreflang="fr" href="https://usevocals.com/fr/ascenseurs/">

diff --git a/elevators/index.html b/elevators/index.html
@@ -5,6 +5,8 @@
 <meta name="viewport" content="width=device-width, initial-scale=1">
 <script src="/assets/medicion.js?v=2" async></script>
 <title>Vocals - AI voice agents for lift and elevator operators</title>
+<meta name="description" content="AI voice agents for elevator companies: your technician calls from the shaft or machine room and gets step-by-step guidance from your manuals and each unit’s history.">
+<link rel="canonical" href="https://usevocals.com/elevators/">
 <link rel="alternate" hreflang="en" href="https://usevocals.com/elevators/">
 <link rel="alternate" hreflang="es" href="https://usevocals.com/es/ascensores/">
 <link rel="alternate" hreflang="fr" href="https://usevocals.com/fr/ascenseurs/">
